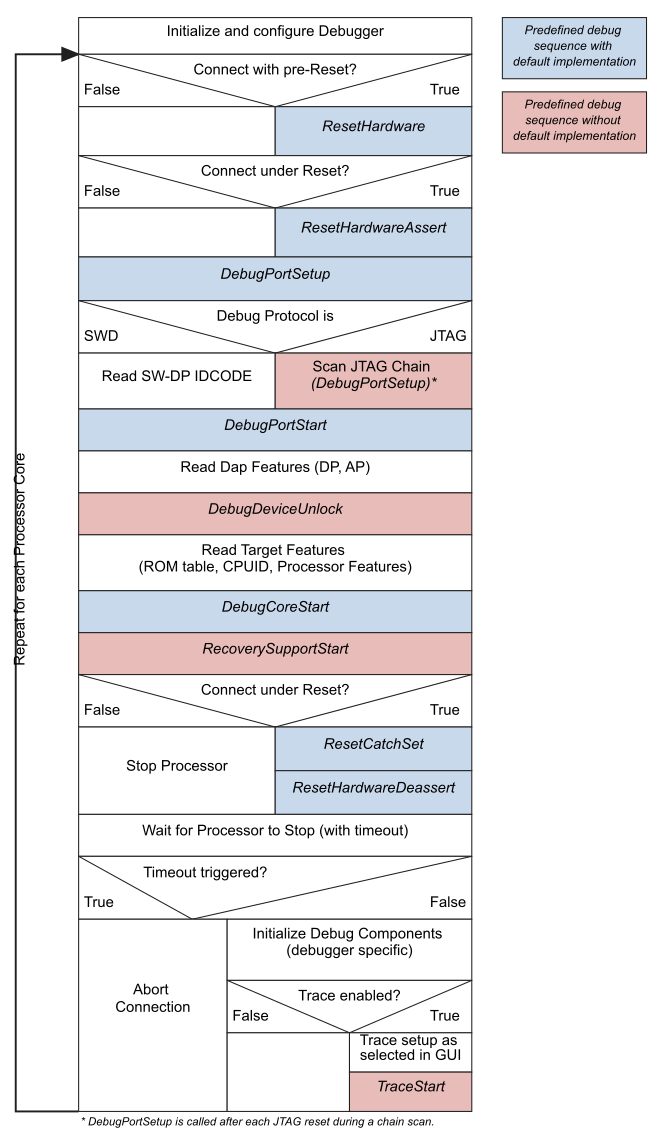
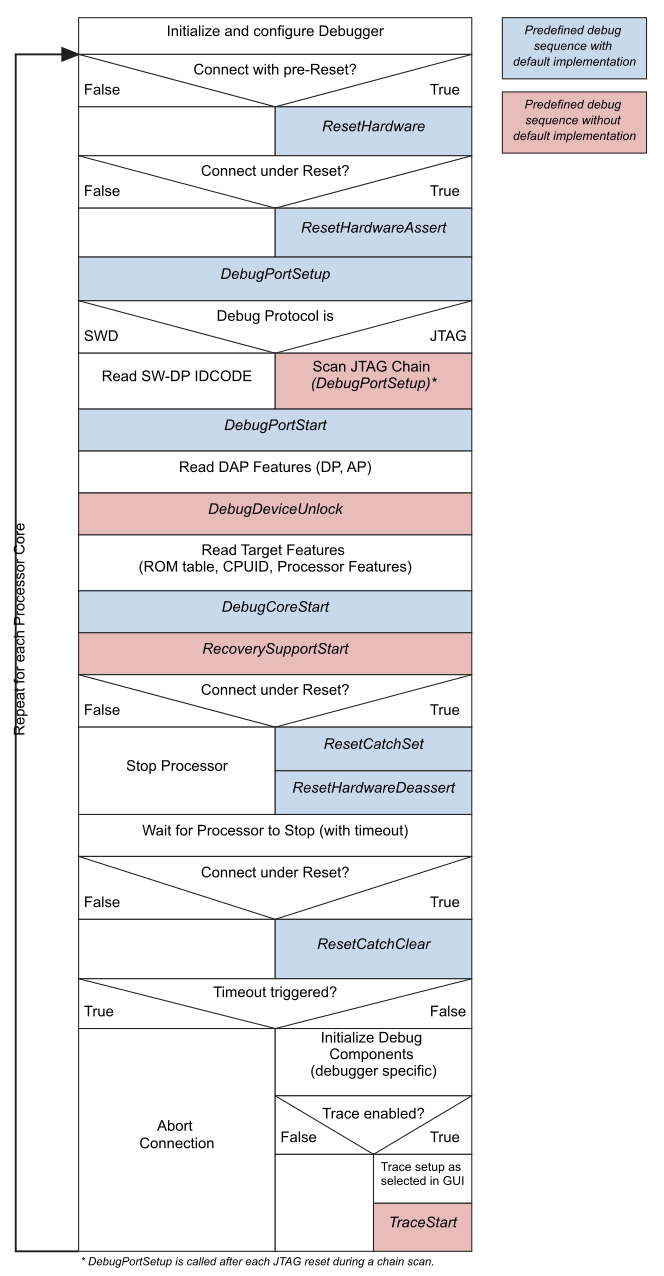
Update main documentation

diff --git a/main/html/pack_revisionHistory.html b/main/html/pack_revisionHistory.html
@@ -113,7 +113,8 @@ $(document).ready(function(){initNavTree('pack_revisionHistory.html',''); initRe
 <th>Version </th><th>Description  </th></tr>
 <tr>
 <td>next </td><td><ul>
-<li>clarified sequence abortion in case of errors   </li>
+<li>clarified sequence abortion in case of errors</li>
+<li>added missing ResetCatchClear to debug connect flow diagram   </li>
 </ul>
 </td></tr>
 <tr>

diff --git a/main/html/cmsis_footer.js b/main/html/cmsis_footer.js
@@ -1,3 +1,3 @@
 function writeFooter()  {
-    document.write('Generated on Wed Jun 17 2026 15:09:11 for Open-CMSIS-Pack Version 1.7.58 by Arm Ltd. All rights reserved.');
+    document.write('Generated on Mon Jun 29 2026 15:21:26 for Open-CMSIS-Pack Version 1.7.58 by Arm Ltd. All rights reserved.');
 };
